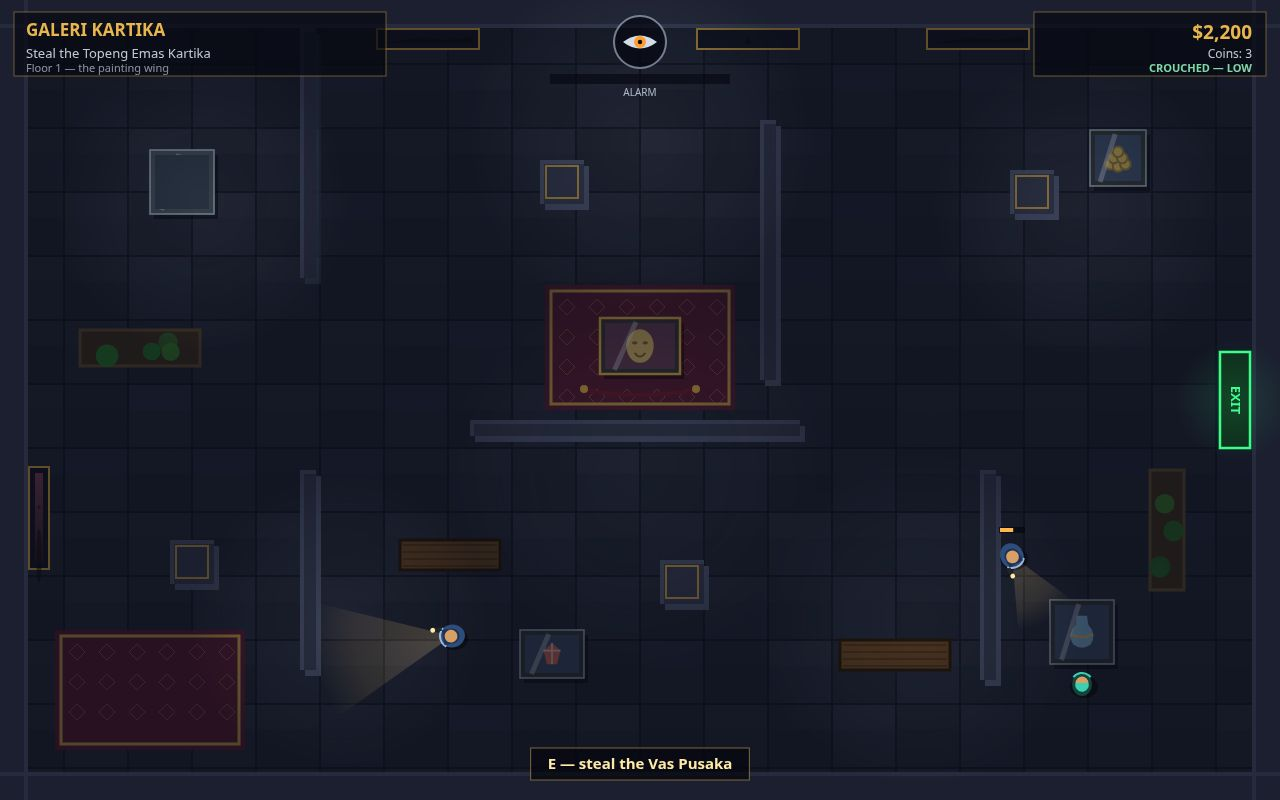
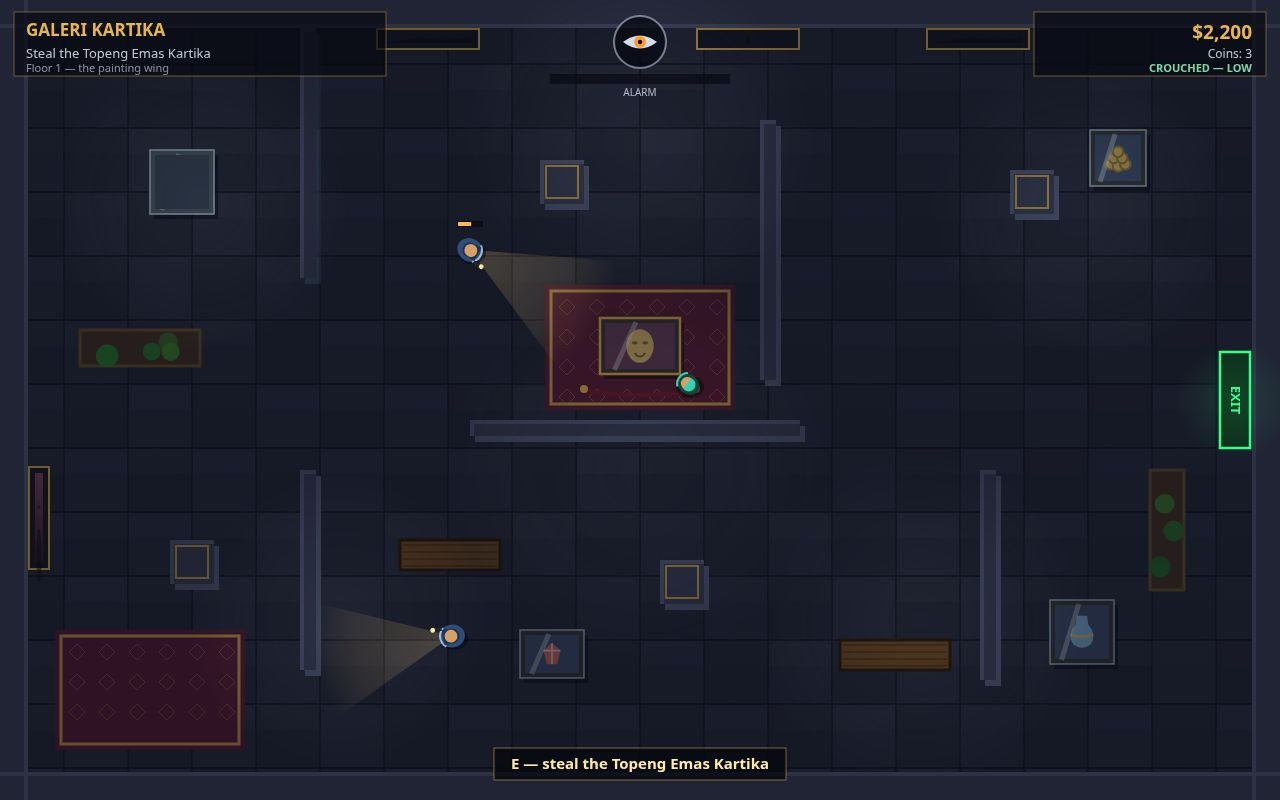
Polish: brighter ambient light, centre-staged cover

diff --git a/game/src/main.js b/game/src/main.js
@@ -390,13 +390,15 @@ function stageShot(name) {
     game.prompt = '';
     return;
   }
-  // cover (default): Floor 1, the thief crouched behind the vase case, a flashlight close.
+  // cover (default): Floor 1, centre frame — the thief crouched in the gold mask
+  // case's shadow on its own carpet while a flashlight sweeps the carpet and
+  // breaks on the case; the second guard works the far corner, EXIT in frame.
   loadFloor(0);
   game.screen = 'play';
   const p = game.player;
-  p.x = 1082; p.y = 684; p.angle = -Math.PI / 2; p.crouched = true;
+  p.x = 688; p.y = 384; p.angle = Math.atan2(346 - 384, 640 - 688); p.crouched = true;
   const [g1, g2] = game.guards;
-  g1.x = 1012; g1.y = 556; g1.angle = Math.atan2(684 - 556, 1082 - 1012);
+  g1.x = 470; g1.y = 250; g1.angle = Math.atan2(346 - 250, 640 - 470);
   g1.meter = 0.55;
   g1.frozen = true;
   g1.cone = conePolygon(g1.x, g1.y, g1.angle, GUARD.coneHalfAngle, GUARD.coneRange, game.tall.concat(game.low));
@@ -407,7 +409,7 @@ function stageShot(name) {
   game.level.cases[1].taken = true; // the emerald is already hers
   game.loot = 2200;
   game.floorLoot = 2200;
-  game.prompt = 'E — steal the Vas Pusaka';
+  game.prompt = 'E — steal the Topeng Emas Kartika';
 }
 
 /* -------------------------------------- loop ------------------------------------ */

diff --git a/game/src/lighting.js b/game/src/lighting.js
@@ -175,7 +175,7 @@ export function drawDarkness(ctx, level, guardCones, cameraCones, time) {
   const d = darkCtx;
   d.save();
   d.clearRect(0, 0, VIEW.width, VIEW.height);
-  d.fillStyle = 'rgba(5,8,20,0.60)';
+  d.fillStyle = 'rgba(5,8,20,0.52)';
   d.fillRect(0, 0, VIEW.width, VIEW.height);
   d.globalCompositeOperation = 'destination-out';
   for (let i = 0; i < level.lights.length; i += 1) {
